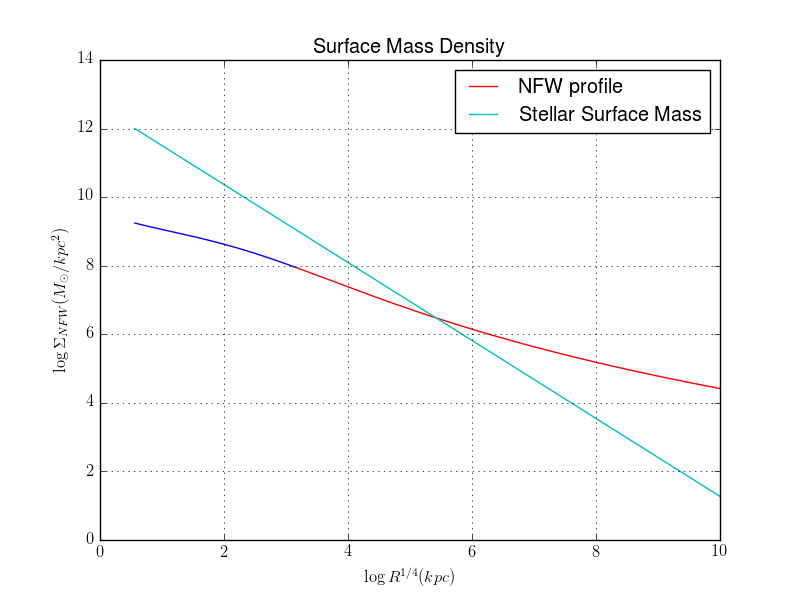
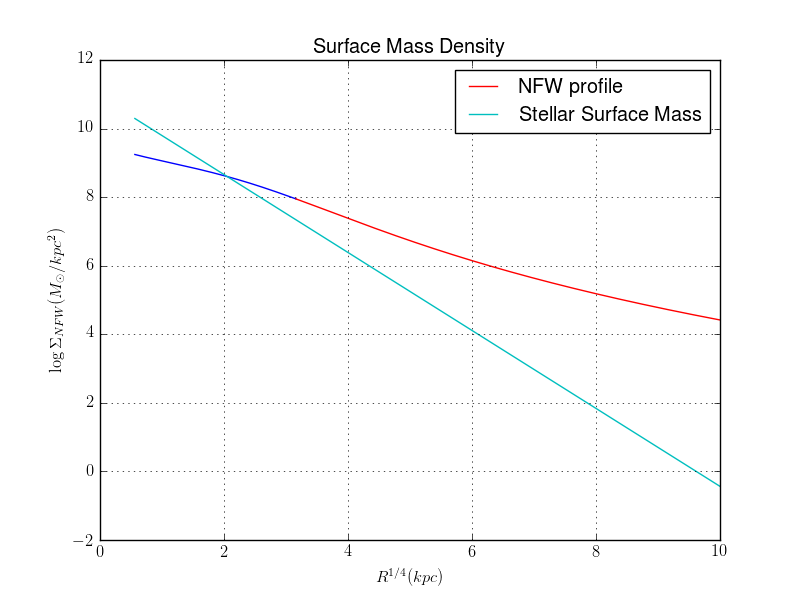
update

diff --git a/plots/surface_density_r_025.py b/plots/surface_density_r_025.py
@@ -12,7 +12,7 @@ c        = 4.46           # concentration parameter (Paper Dutton and Maccio) th
 delta_c = (200./3)*(c**3)/(np.log(1+c)-c/(1+c))
 rho_c    = 197.8            # Critical density in M_sun/kpc^3 (197.8)
 r_s      = 100            # Characteristic radius (pc) 
-I_e      = 5.1*10**8     # Effective brightness I(Re) in L_sun per kpc^2
+I_e = 10**7
 b        = 7.67           # Lokas and Mamon paper
 R_e      = 73.7             # Half of the total light in kpc
 
@@ -43,18 +43,16 @@ print 'Luminosity: %e' %(I1)
 # Projected masses found by integrating the projected surface mass density
 
 def NFW1(x):
-	return 2*np.pi*x*((2*r_s*delta_c*rho_c)/((x*x)-1))*(1-(2)/(np.sqrt(1-(x*x)))*np.arctanh(np.sqrt((1-x)/(1+x))))
+	return 2.*np.pi*x*((2.*r_s*delta_c*rho_c)/((x*x)-1.))*(1.-2./(np.sqrt(1.-(x*x)))*np.arctanh(np.sqrt((1.-x)/(1.+x))))
 I2, I2err = quad(NFW1, 0.001, 1)
 
 def NFW2(x):
-	return 2*np.pi*x*((2*r_s*delta_c*rho_c)/((x*x)-1))*(1-(2)/(np.sqrt((x*x)-1))*np.arctan(np.sqrt((x-1)/(1+x))))
+	return 2.*np.pi*x*((2.*r_s*delta_c*rho_c)/((x*x)-1.))*(1.-2./(np.sqrt((x*x)-1.))*np.arctan(np.sqrt((x-1.)/(1.+x))))
 I3, I3err = quad(NFW2, 1.001, 100)
 IT = I2+I3
 print 'Dark Matter: %e' %(IT)
 
-#plt.yscale('log')
-#plt.xscale('log')
-plt.xlabel('$\log R^{1/4}(kpc)$')
+plt.xlabel('$R^{1/4}(kpc)$')
 plt.ylabel('$\log \Sigma_{NFW}(M_{\odot }/ kpc^{2})$')
 plt.title('Surface Mass Density')
 plt.grid(True)

diff --git a/plots/Surface_mass_density.py b/plots/Surface_mass_density.py
@@ -11,8 +11,8 @@ mpl.rcParams['text.usetex'] = True
 c        = 4.46           # concentration parameter (Paper Dutton and Maccio) this was checked many times 
 delta_c = (200./3)*(c**3)/(np.log(1+c)-c/(1+c))
 rho_c    = 197.8            # Critical density in M_sun/kpc^3 (197.8)
-r_s      = 100.            # Characteristic radius (kpc) 
-I_e      = 5.1*10**8     # Effective brightness I(Re) 2.6e6
+r_s      = 100.            # Characteristic radius (kpc)
+I_e = 10**7               # Effective Brightness mu=23.772
 b        = 7.67           # Lokas and Mamon paper
 R_e      = 73.7             # Half of the total light in kpc
 
@@ -44,11 +44,11 @@ print 'Luminosity: %e' %(I1)
 # Projected masses found by integrating the projected surface mass density
 
 def NFW1(x):
-	return 2*np.pi*x*((2.*r_s*delta_c*rho_c)/((x*x)-1))*(1-2/(np.sqrt(1-(x*x)))*np.arctanh(np.sqrt((1-x)/(1+x))))
+	return 2.*np.pi*x*((2.*r_s*delta_c*rho_c)/((x*x)-1.))*(1.-2./(np.sqrt(1-(x*x)))*np.arctanh(np.sqrt((1.-x)/(1.+x))))
 I2, I2err = quad(NFW1, 0.001, 1.)
 
 def NFW2(x):
-	return 2*np.pi*x*((2*r_s*delta_c*rho_c)/((x*x)-1))*(1-2/(np.sqrt((x*x)-1))*np.arctan(np.sqrt((x-1)/(1+x))))
+	return 2.*np.pi*x*((2.*r_s*delta_c*rho_c)/((x*x)-1.))*(1.-2./(np.sqrt((x*x)-1))*np.arctan(np.sqrt((x-1.)/(1.+x))))
 I3, I3err = quad(NFW2, 1.001, 100.)
 IT = I2+I3
 print 'Dark Matter: %e' %(IT)
